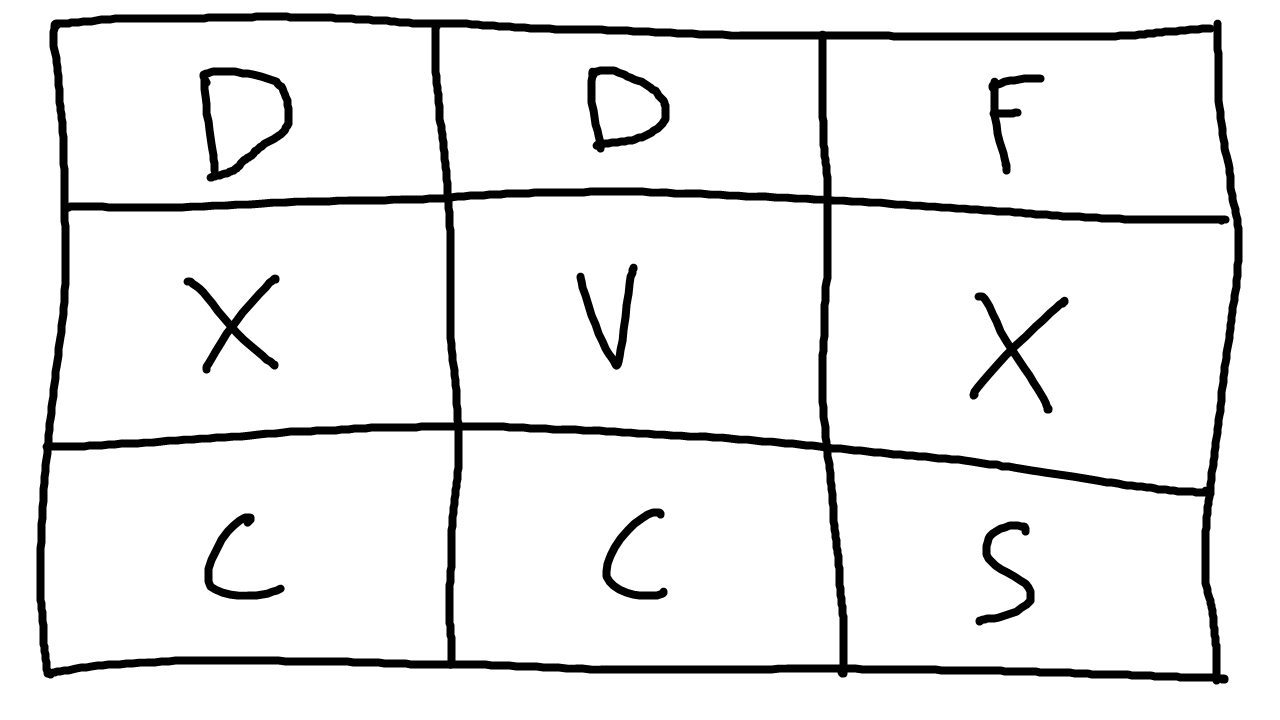
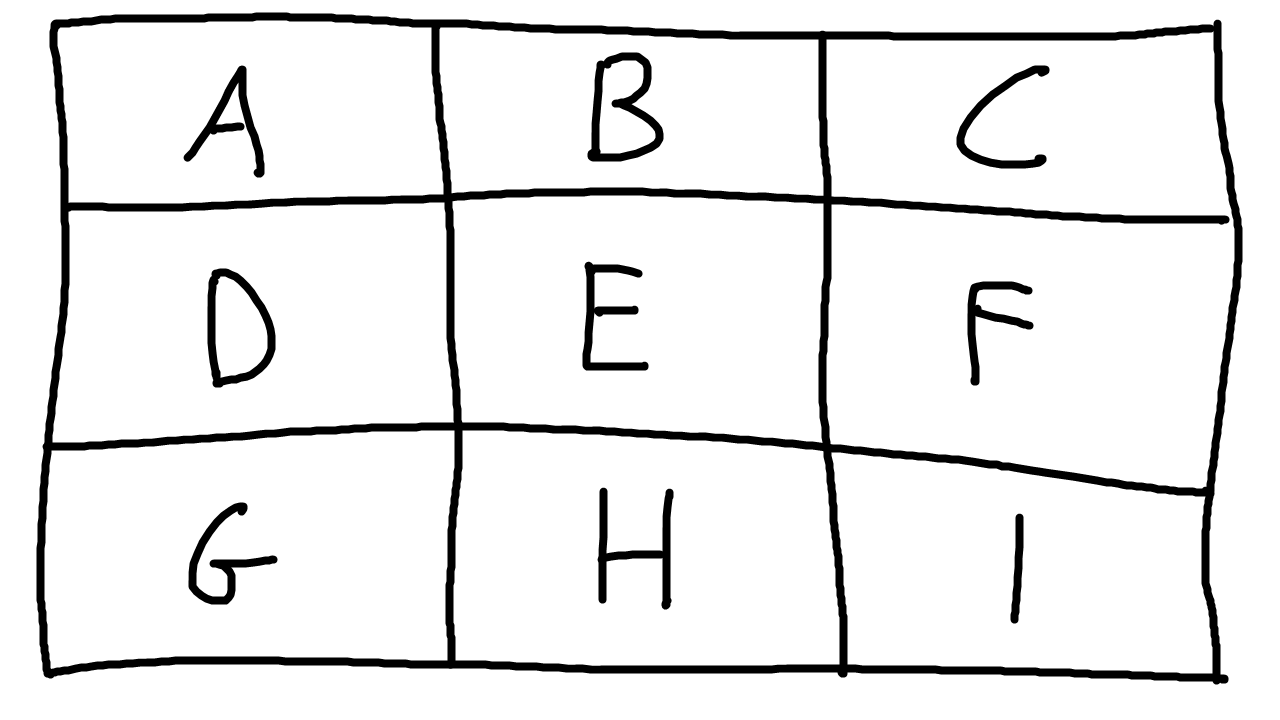
Monkey Sort
Le scimmie sanno ordinare ma non scrivere... Per ora!

diff --git a/main.py b/main.py
@@ -3,7 +3,8 @@ from sklearn.model_selection import train_test_split
 import numpy as np
 import pandas as pd
 import time
-
+from math import sqrt
+import operator
 
 # Legge e prepara il Dataset per il Training
 def prepare_data(file_name:str) -> dict:
@@ -92,30 +93,120 @@ def monkeyRead(file, print=False):
     im1 = cv2.imread(file, 0)
     im = cv2.imread(file)
 
+    #print(im)
+
     ret, thresh_value = cv2.threshold(im1, 180, 255, cv2.THRESH_BINARY_INV)
 
     kernel = np.ones((5, 5), np.uint8)
     dilated_value = cv2.dilate(thresh_value,kernel, iterations=1)
 
-    contours, hierarchy = cv2.findContours(dilated_value, cv2.RETR_TREE, cv2.CHAIN_APPROX_SIMPLE)
+    contours, hierarchy = cv2.findContours(dilated_value, cv2.RETR_CCOMP, cv2.CHAIN_APPROX_SIMPLE)
+    
+    # print(hierarchy)
+    
     
     cordinates = []
     for cnt in contours:
-        x,y,w,h = cv2.boundingRect(cnt)
-        cordinates.append((x,y,w,h))
+        x, y, w, h = cv2.boundingRect(cnt)
+        cordinates.append((x, y, w, h))
 
-        # diesegna un rettangolo sopra ogni elemento trovato      
-        im = cv2.rectangle(im,(x,y),(x+w,y+h),(0,0,255),1)
+        # diesegna un rettangolo sopra ogni elemento trovato   
+        # im = cv2.rectangle(im,(x,y),(x+w,y+h),(0,0,255),1)
 
     # stampa l'immagine con i rettangoli
-    cv2.imshow('SESSO', im)
-    cv2.waitKey(0)
-    cv2.destroyAllWindows()
+    # cv2.imshow('Immagine Inscatolata', im)
+
+    # li ho fatti ritornare perche' a quanto pare non si puo' stampare roba dentro a questa 
+    # funzione perche opencv dice NO
+    return (im, cordinates, hierarchy)
+    
+
+def monkeyExtract(contorni, gerarchia):
+    gerarchia_size = len(gerarchia[0])
+    
+    g_temp = gerarchia[0]
+    # print(gerarchia_size)
+    result = []
+    
+    i = 0
+    while True:
+        if g_temp[i][-1] == -1:
+            if g_temp[i][0] == -1:
+                break
+            else:
+                result.append(contorni[i])
+        i += 1
+
+    return result
+
+
+def monkeySort(cordinate):
+    def miniSort(cordinate, index=0):
+        cordinate.sort(key = lambda x: x[index])
+        
+        return cordinate
+
+    # cordinate.sort(key=operator.itemgetter(1))
+    miniSort(cordinate, index=1)
+
+    row_size = int(sqrt(len(cordinate)))
+
+    i = 0
+    start = 0
+    stop = row_size
+    result = []
+
+    while i < row_size:
+        result += miniSort(cordinate[start:stop], index=0)
+
+        start = stop
+        stop += row_size
+        i += 1
+
+    
+    return result
+
 
 def main():
-
     # prova('./Dataset_Artista/Sesso_Staccato.png')
-    monkeyRead('./Dataset_Artista/Sesso_Duro.png')
+    im, contorni, gerarchia = monkeyRead('./Dataset_Artista/Sesso_Duro.png')
+    # monkeyRead('./Dataset_Artista/Esempio1.png')
+
+    lista = monkeyExtract(contorni, gerarchia)
+    
+    # im = cv2.imread('./Dataset_Artista/Sesso_Duro.png')
+    lista = monkeySort(lista)
+
+    
+    for elem in lista:
+
+        x, y, w, h = elem
+        
+        test = im[y:y+h, x:x+w]
+
+        cv2.imshow('Box', test)
+        cv2.waitKey(0)
+        cv2.destroyAllWindows()
+    
+    '''
+    i = 0
+    while True:
+        print(gerarchia[0][i])
+        x, y, w, h = contorni[i]
+
+        #print(x, y, w, h)
+        #print(im.size)
+        
+        test = im[y:y+h, x:x+w]
+
+        cv2.imshow('Box', test)
+        cv2.waitKey(0)
+        cv2.destroyAllWindows()
+        i += 1
+
+        (3, 7) (4, 9)
+    '''
+
     '''
     # prepara il dataset
     data_train, data_test, label_train, label_test = prepare_data('trimmedData.csv')

diff --git a/Animation.py b/Animation.py
@@ -196,7 +196,7 @@ def main():
     matrix[2][1] = database['d']
     matrix[2][2] = database['f']
 
-    Animation(matrix, dimension).start()
+    Animation(matrix, dimension, cellsize=200).start()
 
     '''
     global surface
